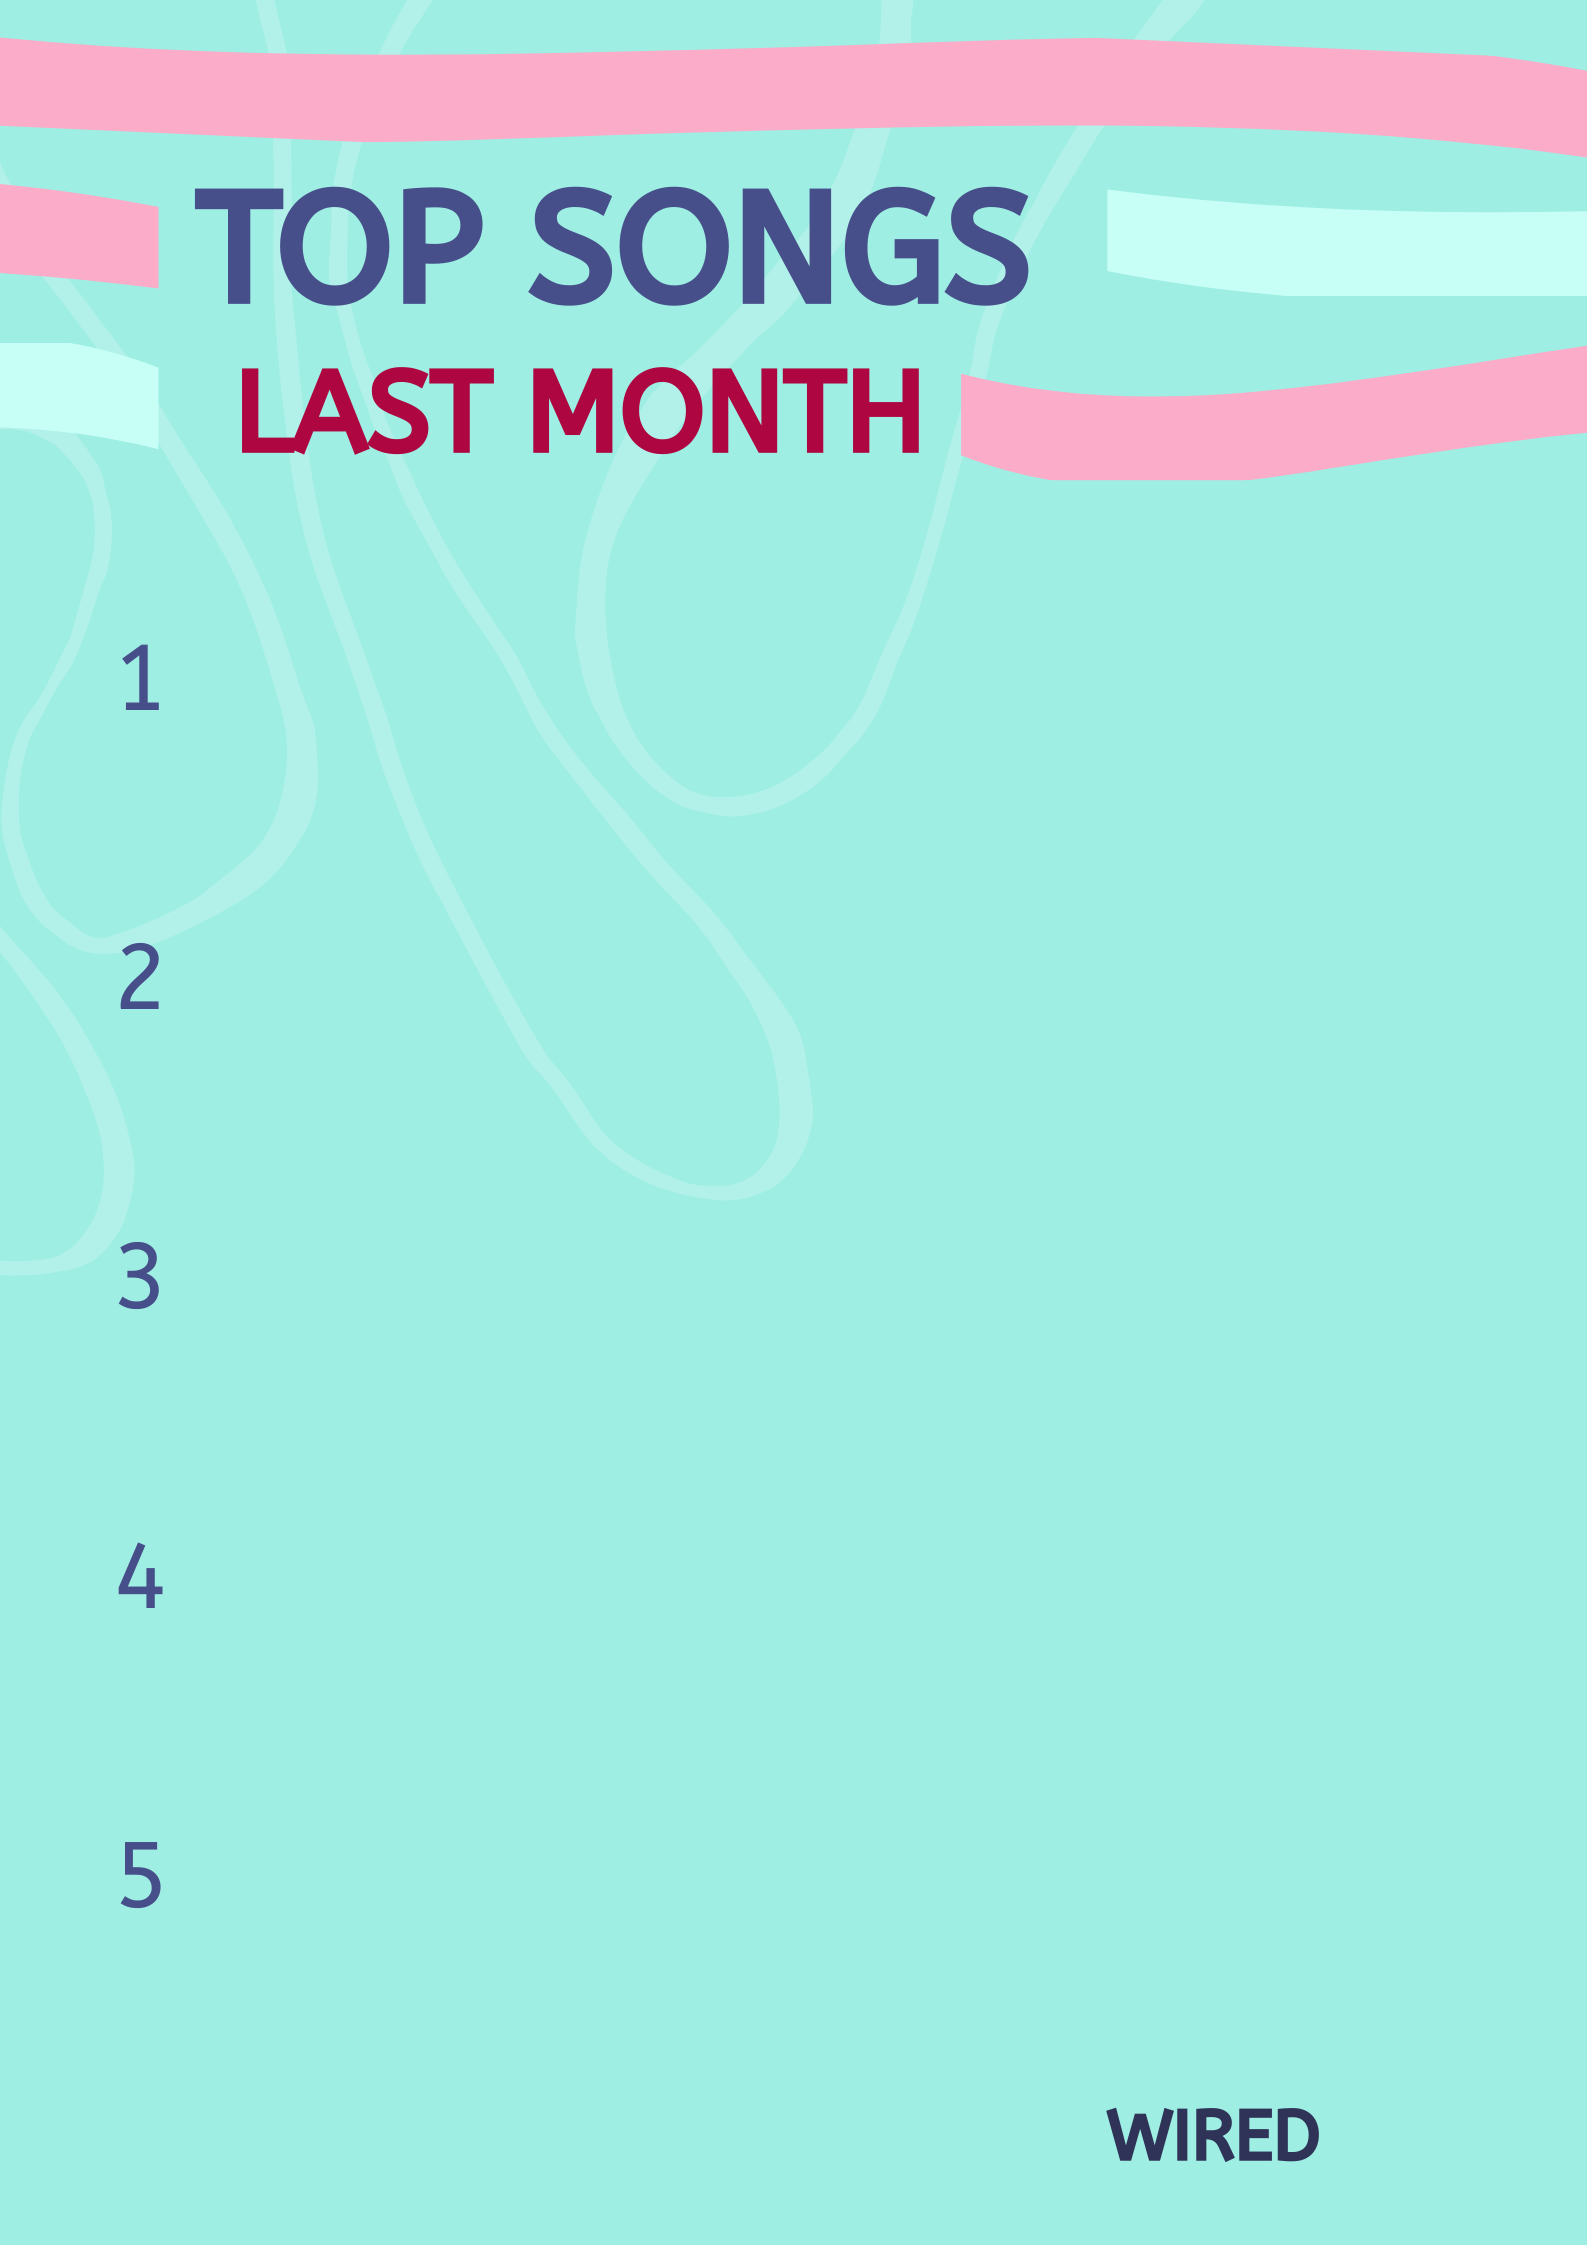
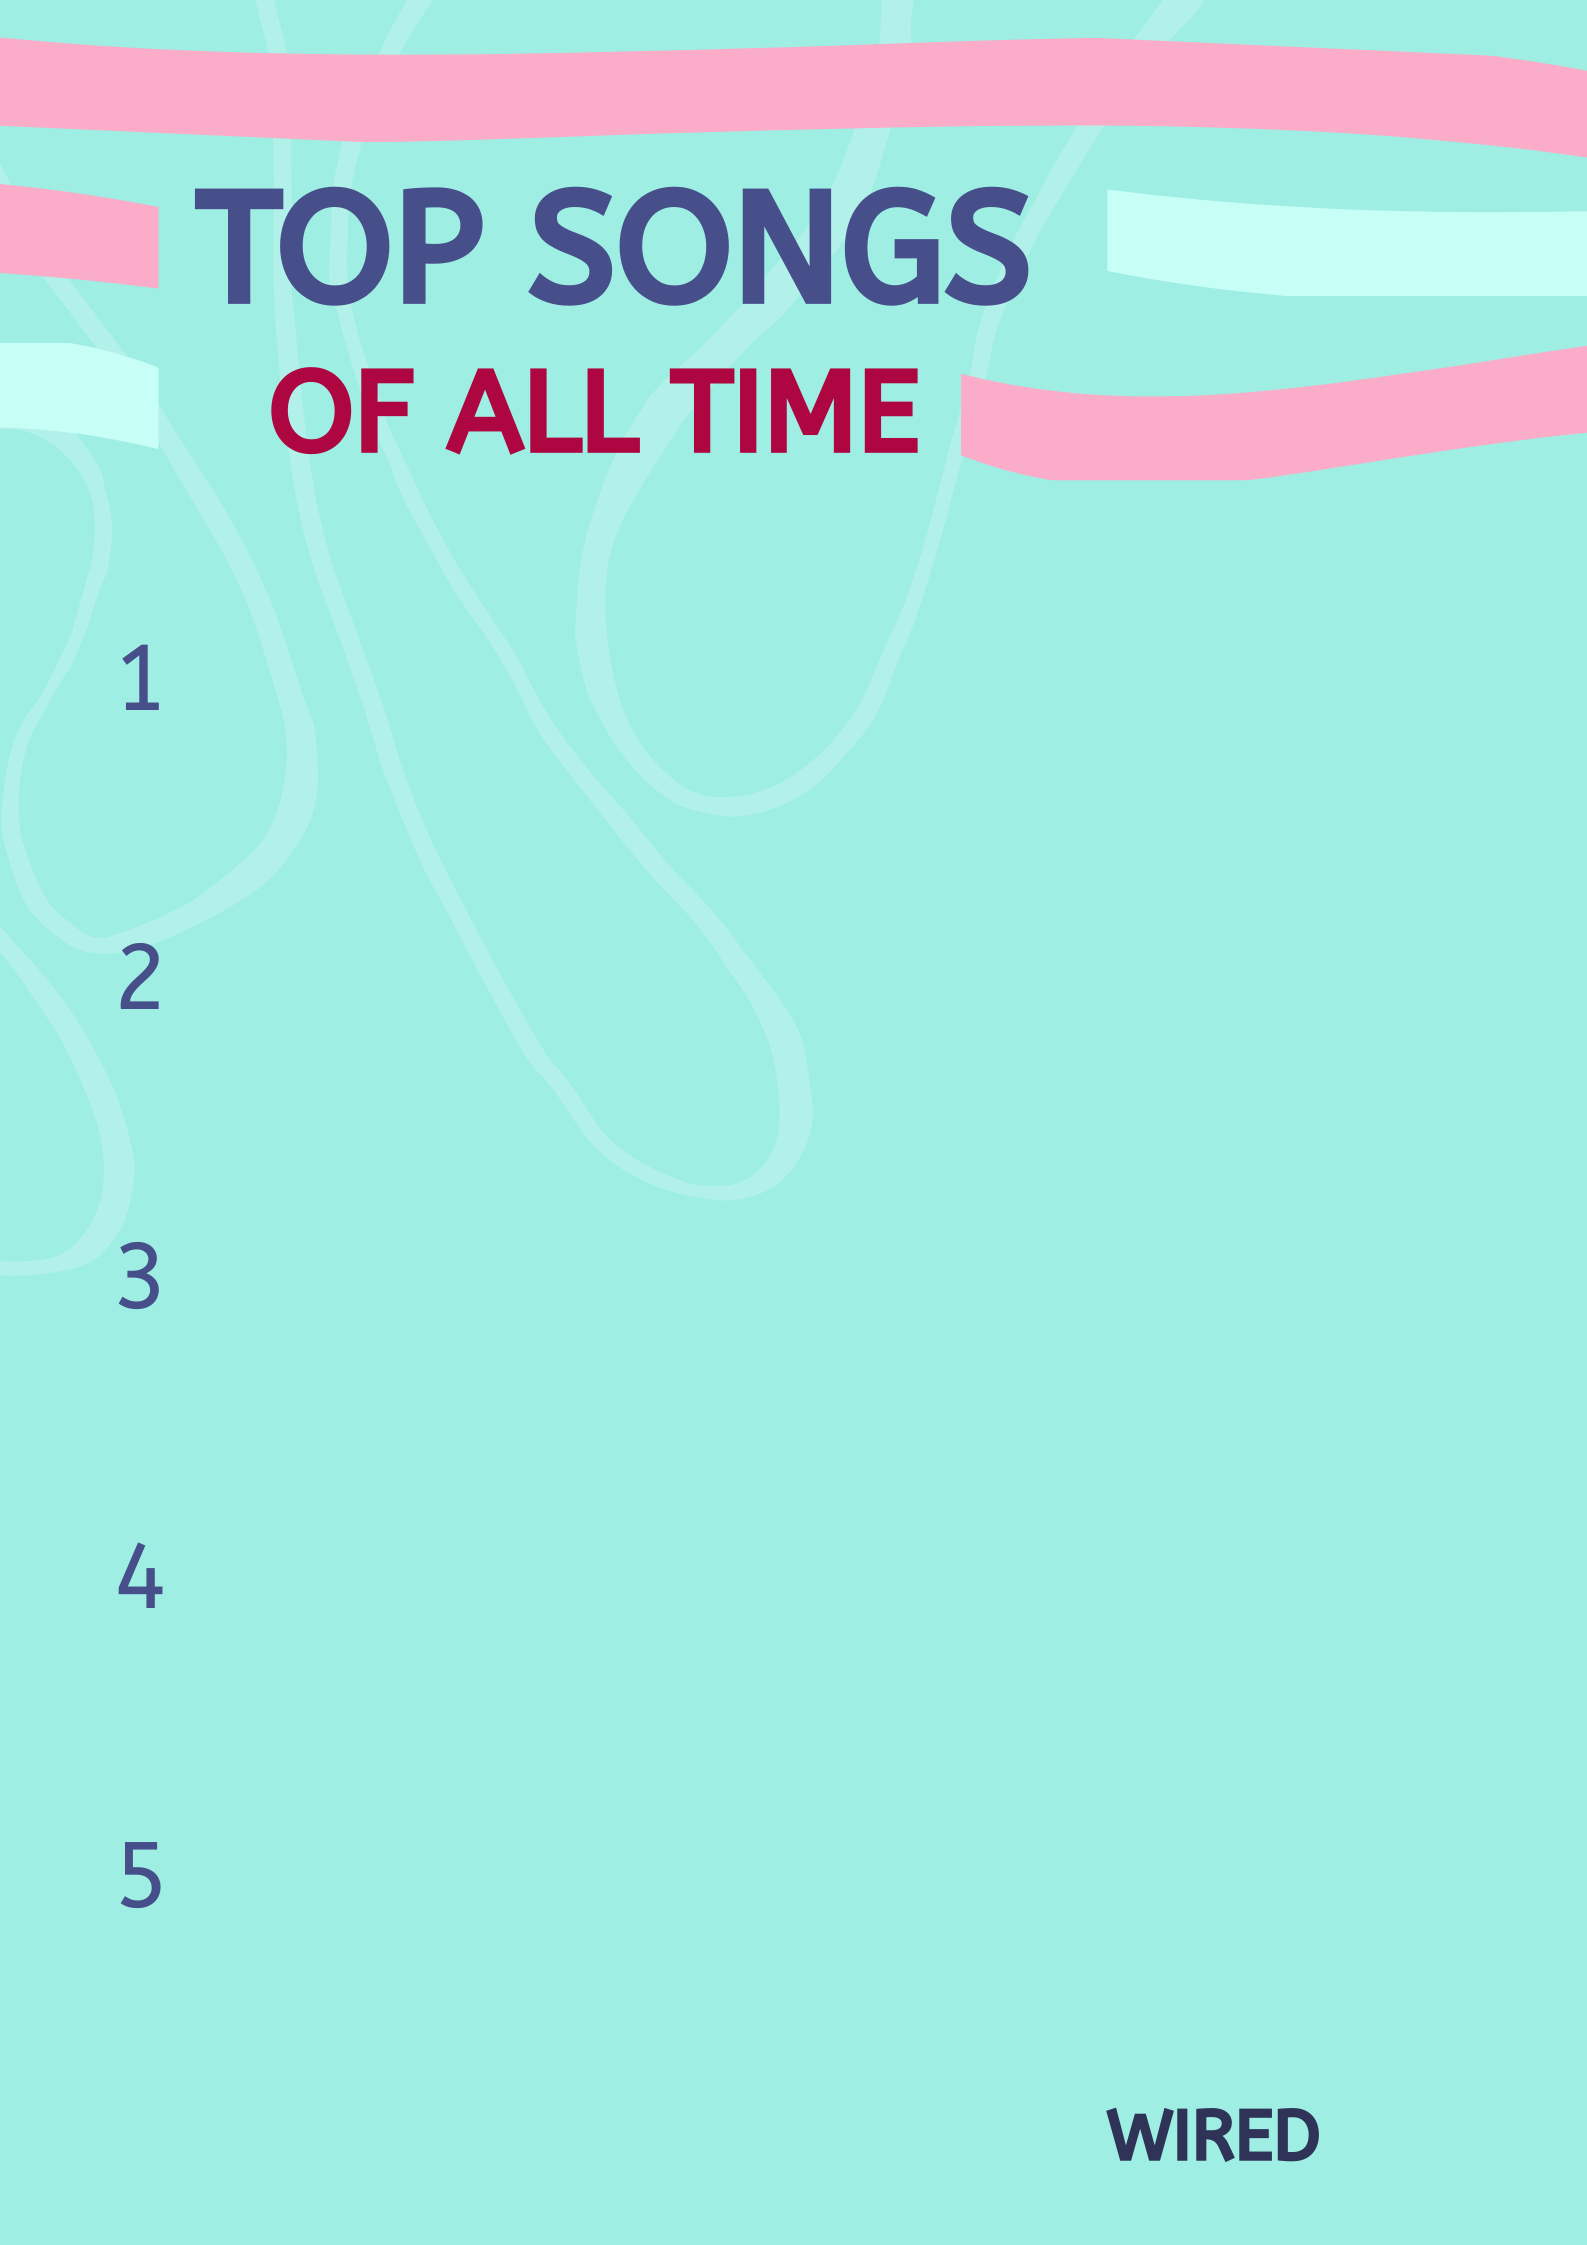
- fixed artist pfp parsing - finished top artists

Changed region(s): [[0.1544, 0.1559, 0.5866, 0.2183]]

diff --git a/frontend/src/pages/user/profile/TopArtistsModal.jsx b/frontend/src/pages/user/profile/TopArtistsModal.jsx
@@ -1,0 +1,57 @@
+import React from 'react';
+import styles from './TopArtistsModal.module.css';
+
+// receives isOpen (bool), onClose (function), and artists (array) from Profile.jsx
+function TopArtistsModal({ isOpen, onClose, artists = [] }) {
+
+    // dont render anything if the modal is closed
+    if (!isOpen) return null;
+
+    return (
+        // dark overlay behind the popup, clicking it will close the modal
+        <div className={styles.overlay} onClick={onClose}>
+
+            {/* the popup box, clicking the box wont close the modal */}
+            <div className={styles.popup} onClick={e => e.stopPropagation()}>
+
+                {/* the blank canva template as the background */}
+                <img src="/2.png" alt="Top Artists Template" className={styles.template} />
+
+                {/* data layer sits on top of the template using absolute positioning */}
+                <div className={styles.dataLayer}>
+
+                    {/* loop through top 5 artists and render each row */}
+                    {artists.slice(0, 5).map((artist, index) => (
+                        <div key={index} className={styles.row} style={{
+                            top: `${25.5 + index * 13.3}%`  // starting position of row 1 + index * gap between rows
+                        }}>
+                            {/* artist profile picture pulled from spotify */}
+                            <img
+                                src={artist.profilePictureUrl}
+                                alt={artist.artistName}
+                                className={styles.albumArt}
+                            />
+
+                            {/* artist name */}
+                            <div className={styles.songInfo}>
+                                <div className={styles.songName}>
+                                    {artist.artistName}
+                                </div>
+                            </div>
+
+                            {/* listen count */}
+                            <div className={styles.listenCount}>
+                                {artist.listenCount ? `${artist.listenCount} listens` : ''}
+                            </div>
+                        </div>
+                    ))}
+                </div>
+
+                {/* close button in the top right corner */}
+                <button className={styles.closeButton} onClick={onClose}>✕</button>
+            </div>
+        </div>
+    );
+}
+
+export default TopArtistsModal;

diff --git a/frontend/src/pages/user/profile/TopArtistsModal.module.css b/frontend/src/pages/user/profile/TopArtistsModal.module.css
@@ -1,0 +1,114 @@
+/* dark overlay behind the popup */
+.overlay {
+    position: fixed;
+    top: 0;
+    left: 0;
+    width: 100vw;
+    height: 100vh;
+    background-color: rgba(0, 0, 0, 0.6);
+    display: flex;
+    justify-content: center;
+    align-items: center;
+    z-index: 1000;
+}
+
+/* the popup box */
+.popup {
+    position: relative;
+    width: 420px;
+}
+
+/* the blank canva template as the background */
+.template {
+    width: 100%;
+    display: block;
+}
+
+/* data layer sits on top of the template */
+.dataLayer {
+    position: absolute;
+    top: 0;
+    left: 0;
+    width: 100%;
+    height: 100%;
+}
+
+/* each song row */
+.row {
+    position: absolute;
+    left: 12%;
+    width: 80%;
+    display: flex;
+    align-items: center;
+    gap: 12px;
+	flex-wrap: nowrap;
+}
+
+/* album art */
+.albumArt {
+    width: 16.5%;
+    aspect-ratio: 1;
+    object-fit: cover;
+	align-self: center;
+}
+
+/* song name and artist container */
+.songInfo {
+    margin-left: -1px;
+    flex: 1;
+	text-align: left;
+}
+
+/* song name */
+.songName {
+    font-family: 'ABeeZee';
+    font-weight: 900;
+    font-size: 0.9rem;
+    color: #2e3357 !important;
+    text-transform: uppercase;
+    max-width: 200px;
+    line-height: 0.95;
+    display: -webkit-box;
+    -webkit-line-clamp: 2;       
+    -webkit-box-orient: vertical;
+    overflow: hidden;
+}
+
+/* artist name */
+.artistName {
+    font-family: 'ABeeZee';
+    font-weight: normal;
+    font-size: 0.7rem;
+    color:#474037  !important;
+    text-transform: uppercase;
+    display: -webkit-box;
+    -webkit-line-clamp: 1;
+    -webkit-box-orient: vertical;
+    overflow: hidden;
+    max-width: 400px;
+}
+
+/* listen count */
+.listenCount {
+    font-family: 'ABeeZee';
+    font-size: 1.5rem;
+    font-weight: bold;
+    color:#588157 !important;
+    text-transform: uppercase;
+    white-space: nowrap;
+}
+
+/* close button */
+.closeButton {
+    position: absolute;
+    top: 8px;
+    right: 8px;
+    background: rgba(0, 0, 0, 0.4);
+    color: white;
+    border: none;
+    border-radius: 50%;
+    width: 28px;
+    height: 28px;
+    cursor: pointer;
+    font-size: 14px;
+}

diff --git a/frontend/src/pages/user/profile/Profile.jsx b/frontend/src/pages/user/profile/Profile.jsx
@@ -2,6 +2,7 @@ import Navbar from '../../../components/navbar';
 import React, { useState, useEffect } from 'react';
 import { useNavigate } from 'react-router-dom';
 import TopSongsModal from './TopSongsModal';
+import TopArtistsModal from './TopArtistsModal';
 
 function Profile() {
 
@@ -137,11 +138,11 @@ function Profile() {
                 />
 
                 {/* top artists modal */}
-                {/* <TopArtistsModal
+                <TopArtistsModal
                     isOpen={showTopArtists}
                     onClose={() => setShowTopArtists(false)}
                     artists={topArtistsData}
-                /> */}
+                />
 
             
             </div>

diff --git a/server/src/main/java/com/group1/wired/service/ParseService.java b/server/src/main/java/com/group1/wired/service/ParseService.java
@@ -97,7 +97,7 @@ public class ParseService {
             for (JsonNode artistNode : artistsNode) {
                 String artistSpotifyId = artistNode.path("id").asText();
                 String artistName = artistNode.path("name").asText("Unknown");
-                Artist artist = parseAndSaveArtist(artistSpotifyId, artistName);
+                Artist artist = parseAndSaveArtist(accessToken, artistSpotifyId, artistName);
                 songArtistRepository.save(new SongArtist(song, artist));
             }
 
@@ -112,11 +112,11 @@ public class ParseService {
     public Album parseAndSaveAlbum(String accessToken, String spotifyAlbumId) {
         return albumRepository.findBySpotifyAlbumId(spotifyAlbumId).orElseGet(() -> {
             String json = spotifyEngine.fetchAlbum(accessToken, spotifyAlbumId);
-            return parseAlbumFromJson(json);
+            return parseAlbumFromJson(accessToken, json);
         });
     }
 
-    private Album parseAlbumFromJson(String json) {
+    private Album parseAlbumFromJson(String accessToken, String json) {
         try {
             JsonNode root = objectMapper.readTree(json);
 
@@ -131,7 +131,6 @@ public class ParseService {
             for (JsonNode artistNode : artistsNode) {
                 String artistSpotifyId = artistNode.path("id").asText();
                 String artistName = artistNode.path("name").asText("Unknown");
-                Artist artist = parseAndSaveArtist(artistSpotifyId, artistName);
                 Artist artist = parseAndSaveArtist(accessToken, artistSpotifyId, artistName);
             }
 

diff --git a/server/src/main/java/com/group1/wired/service/StatsService.java b/server/src/main/java/com/group1/wired/service/StatsService.java
@@ -1,5 +1,5 @@
 package com.group1.wired.service;
-
+import com.group1.wired.dto.TopArtistDTO;
 import com.group1.wired.dto.TopSongDTO;
 import com.group1.wired.entities.Song;
 import com.group1.wired.entities.SongArtist;
@@ -46,7 +46,7 @@ public class StatsService {
             Song song = songRepository.findById(songId)
                     .orElse(null);
 
-            //if song doesnt exist in db for some reason, skip it
+            //if song doesnt exist in db, skip it
             if (song == null) continue;
 
             //get all artists linked to this song
@@ -61,5 +61,23 @@ public class StatsService {
         }
 
         return topSongs;
+    }
+    
+    public List<TopArtistDTO> getTopArtists(User user) {
+
+        // run the query, each Object[] contains [artistId, artistName, profilePictureUrl, listenCount]
+        List<Object[]> results = listeningActivityRepository.findTop5ArtistsByUser(user);
+
+        List<TopArtistDTO> topArtists = new ArrayList<>();
+
+        for (Object[] row : results) {
+            String artistName = (String) row[1];
+            String profilePictureUrl = (String) row[2];
+            Long listenCount = (Long) row[3];
+
+            topArtists.add(new TopArtistDTO(artistName, profilePictureUrl, listenCount));
+        }
+
+        return topArtists;
     }
 }

diff --git a/server/src/main/java/com/group1/wired/controllers/StatsController.java b/server/src/main/java/com/group1/wired/controllers/StatsController.java
@@ -1,6 +1,7 @@
 package com.group1.wired.controllers;
 
 import com.group1.wired.dto.TopSongDTO;
+import com.group1.wired.dto.TopArtistDTO;
 import com.group1.wired.entities.User;
 import com.group1.wired.repositories.UserRepository;
 import com.group1.wired.service.StatsService;
@@ -82,4 +83,26 @@ public class StatsController {
             return ResponseEntity.status(401).build();
         }
     }
+    
+    //GET /api/stats/top-artists
+    //returns the current user's top 5 most listened artists
+    @GetMapping("/top-artists")
+    public ResponseEntity<?> getTopArtists(HttpServletRequest request) {
+    	try {
+    		User currentUser = getCurrentUser(request);
+
+    		List<TopArtistDTO> topArtists = statsService.getTopArtists(currentUser);
+
+    		// reject if user hasnt listened to enough distinct artists yet
+    		if (topArtists.size() < 5) {
+    			return ResponseEntity.badRequest()
+    					.body("Not enough listening history. Listen to at least 5 artists to see your top artists.");
+    		}
+
+    		return ResponseEntity.ok(topArtists);
+
+    	} catch (Exception e) {
+         return ResponseEntity.status(401).build();
+     }
+ }
 }

diff --git a/server/src/main/java/com/group1/wired/repositories/ListeningActivityRepository.java b/server/src/main/java/com/group1/wired/repositories/ListeningActivityRepository.java
@@ -12,7 +12,7 @@ import java.util.List;
 
 @Repository
 public interface ListeningActivityRepository extends JpaRepository<ListeningActivity,Long> {
-	
+	//top songs
 	@Query("""
 	        SELECT la.song.songId, la.song.songName, la.song.albumArtUrl, COUNT(la) as listenCount
 	        FROM ListeningActivity la
@@ -22,4 +22,15 @@ public interface ListeningActivityRepository extends JpaRepository<ListeningActi
 	        LIMIT 5
 	    """)
 	    List<Object[]> findTop5SongsByUser(@Param("user") User user);	
+	//top artists, joins la on song on song artist on artist   
+	@Query("""
+    	    SELECT sa.artist.artistId, sa.artist.artistName, sa.artist.profilePictureUrl, COUNT(la) as listenCount
+    	    FROM ListeningActivity la
+    	    JOIN SongArtist sa ON sa.song = la.song
+    	    WHERE la.user = :user
+    	    GROUP BY sa.artist.artistId, sa.artist.artistName, sa.artist.profilePictureUrl
+    	    ORDER BY listenCount DESC
+    	    LIMIT 5
+    	""")
+    	List<Object[]> findTop5ArtistsByUser(@Param("user") User user);
 }

diff --git a/server/src/main/java/com/group1/wired/dto/TopArtistDTO.java b/server/src/main/java/com/group1/wired/dto/TopArtistDTO.java
@@ -1,0 +1,18 @@
+package com.group1.wired.dto;
+
+public class TopArtistDTO {
+
+    private String artistName;
+    private String profilePictureUrl;
+    private Long listenCount;
+
+    public TopArtistDTO(String artistName, String profilePictureUrl, Long listenCount) {
+        this.artistName = artistName;
+        this.profilePictureUrl = profilePictureUrl;
+        this.listenCount = listenCount;
+    }
+
+    public String getArtistName() { return artistName; }
+    public String getProfilePictureUrl() { return profilePictureUrl; }
+    public Long getListenCount() { return listenCount; }
+}
